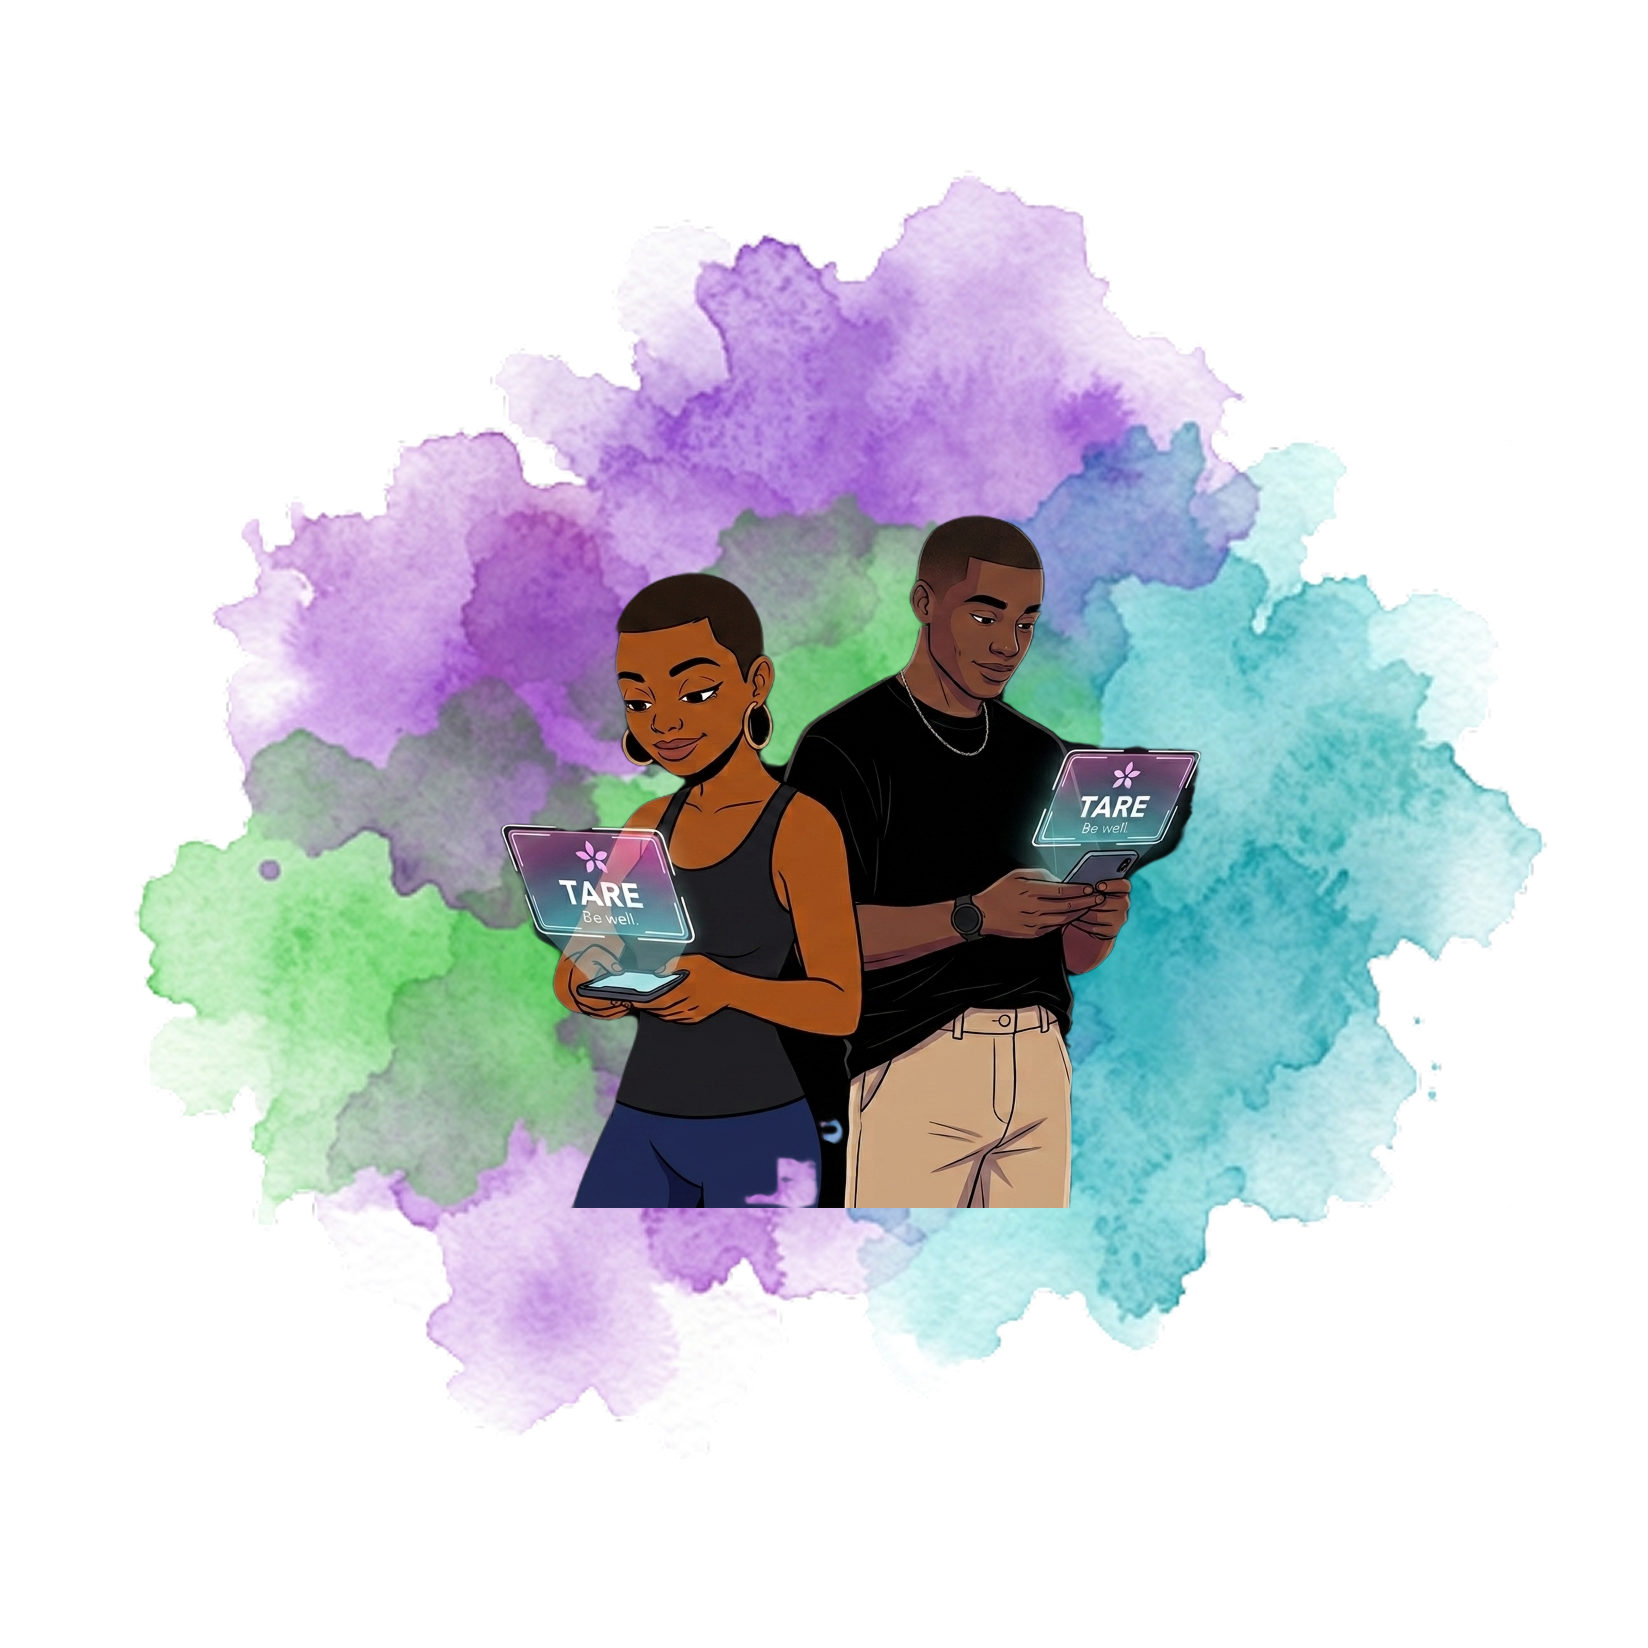
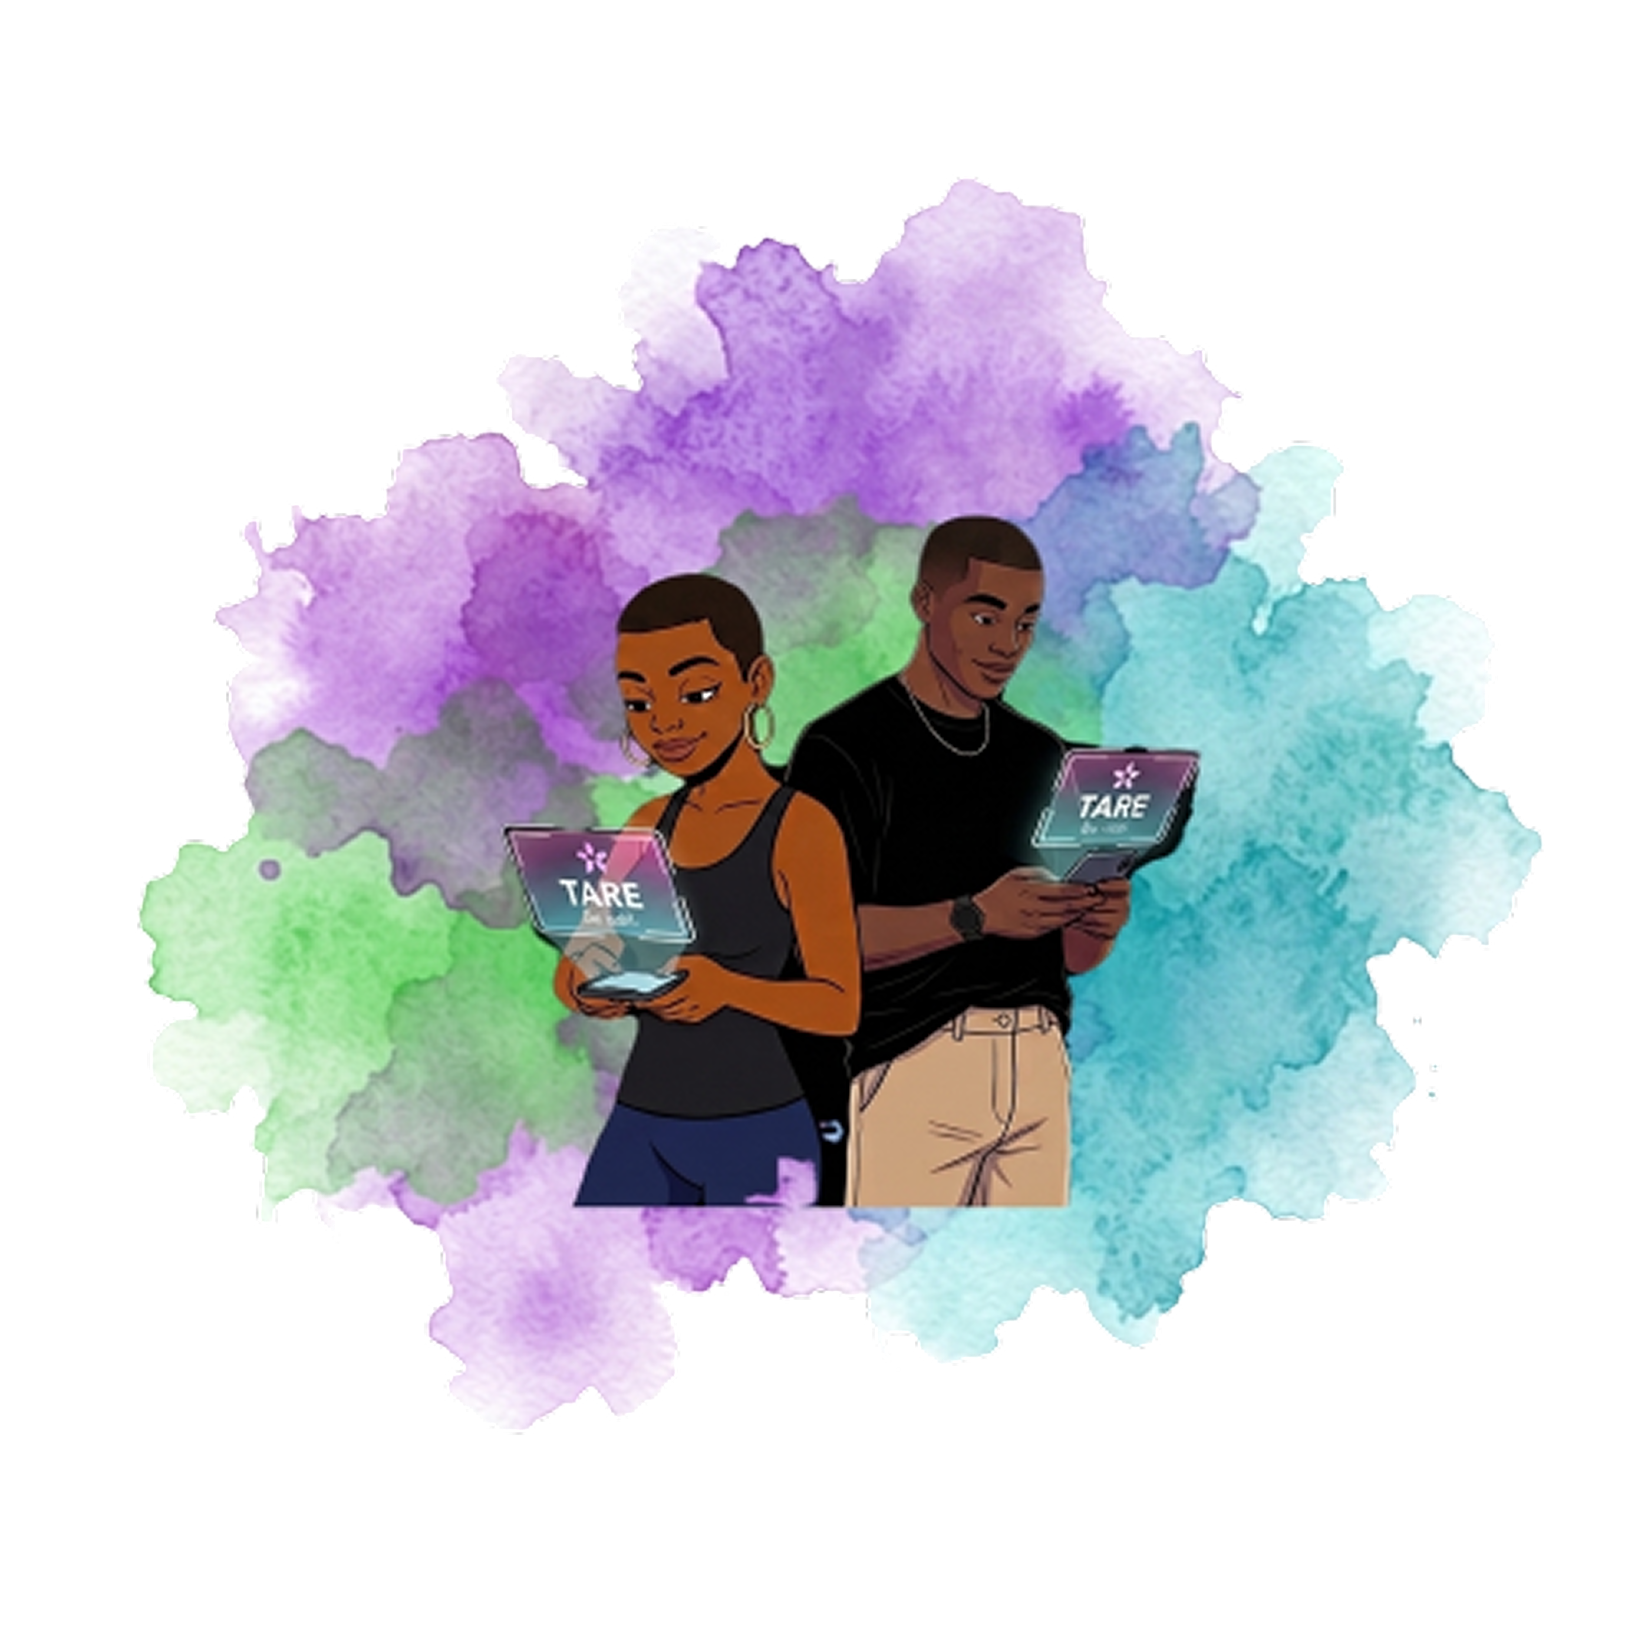
feat(hero): swap home hero image + smooth fade-in animation
Updates the home page hero section with the new "Hero Home 1.png" asset
and a smoother fade-in animation. Keeps the existing cream page
background — the image's transparent corners blend into the cream.

Asset:
- Replaced public/hero-home.png with the new "Hero Home 1.png" asset
- Image is 1648×1648 RGBA with transparent corners — transparent areas
  blend seamlessly into the cream page background (#FFF5EE)
- Content: two people holding glowing glassmorphic phones displaying
  holographic TARE Be Well screens, surrounded by a watercolor splash
  (purple, green, teal)
- Rendered via next/image with priority prop for above-the-fold LCP
  optimization (already in place)

Theme integration:
- Kept the original transparent section background — image floats on
  the cream page background (no bg-black)
- Removed the rounded-[3rem] overflow-hidden bounding box around the
  old watercolor morph layer — no visible borders or bounding boxes
- Removed the separate watercolor morph layer (the new image has its
  own watercolor content baked in)
- Removed the hero-card-glow pulsing animation (would have created a
  halo that looks like a bounding box)
- Kept the 2 ambient blurred blooms at original /30 opacity
- Text colors unchanged (dark maroon on cream — already readable)
- Button styling unchanged

Animation:
- Updated the image motion variant (itemImage) from
  initial={{ opacity: 0, scale: 0.92, y: 30 }} to
  initial={{ opacity: 0, y: 20 }} per task spec
[…]

diff --git a/src/components/site/Hero.tsx b/src/components/site/Hero.tsx
@@ -25,11 +25,13 @@ const itemUp = {
   },
 };
 
+// Per task spec: smooth fade-in + slight upward translation for the image.
+// Complements the glowing, glassmorphic UI elements the illustrated
+// characters are holding — gives a gentle "rising into view" feel.
 const itemImage = {
-  hidden: { opacity: 0, scale: 0.92, y: 30 },
+  hidden: { opacity: 0, y: 20 },
   show: {
     opacity: 1,
-    scale: 1,
     y: 0,
     transition: { duration: 0.9, ease: [0.22, 1, 0.36, 1] as const },
   },
@@ -55,7 +57,8 @@ export default function Hero() {
       id="how-it-works"
       className="relative w-full overflow-hidden px-5 pb-16 pt-6 sm:px-8 sm:pb-20 lg:px-12 lg:pb-28 lg:pt-8"
     >
-      {/* Decorative blurred blooms in the background */}
+      {/* Decorative blurred blooms in the background — kept at original
+          opacity to match the cream page background. */}
       <div
         aria-hidden
         className="pointer-events-none absolute -left-24 top-10 h-72 w-72 rounded-full bg-[#C7B2E2]/30 blur-3xl"
@@ -92,7 +95,7 @@ export default function Hero() {
             <span className="text-[#90AAFF]">They Can Feel</span>
           </motion.h1>
 
-          {/* Body copy */}
+          {/* Body copy — readable on the cream page background */}
           <motion.p
             variants={itemUp}
             className="mt-7 max-w-xl font-sans text-[18px] leading-relaxed text-[#4E0030]/80"
@@ -123,7 +126,9 @@ export default function Hero() {
           </motion.div>
         </motion.div>
 
-        {/* RIGHT: Hero image column */}
+        {/* RIGHT: Hero image column.
+            Transparent section background — image floats on the cream
+            page background (its transparent corners blend into cream). */}
         <motion.div
           variants={itemImage}
           initial="hidden"
@@ -131,23 +136,14 @@ export default function Hero() {
           className="order-1 flex items-center justify-center lg:order-2"
         >
           <div className="relative aspect-square w-full max-w-[420px] sm:max-w-[480px] lg:max-w-[560px]">
-            {/* Watercolor liquid morphing background layer (z-1) */}
-            <div aria-hidden className="absolute inset-0 z-[1] overflow-hidden rounded-[3rem]">
-              <div className="absolute inset-0 animate-watercolor-morph">
-                <div className="absolute left-[10%] top-[15%] h-[50%] w-[50%] rounded-full bg-[#C7B2E2]/40 blur-3xl animate-blob-1" />
-                <div className="absolute right-[5%] top-[20%] h-[45%] w-[45%] rounded-full bg-[#B5E1C3]/35 blur-3xl animate-blob-2" />
-                <div className="absolute left-[20%] bottom-[10%] h-[40%] w-[40%] rounded-full bg-[#BCE1F0]/35 blur-3xl animate-blob-3" />
-                <div className="absolute right-[15%] bottom-[15%] h-[35%] w-[35%] rounded-full bg-[#E8B6D5]/30 blur-3xl animate-blob-4" />
-              </div>
-            </div>
             <Image
               src="/hero-home.png"
-              alt="Black couple standing back to back holding phones displaying holographic TARE Be Well screens"
+              alt="Two people holding glowing phones displaying holographic TARE Be Well screens, surrounded by a watercolor splash of purple, green, and teal"
               fill
               priority
               quality={95}
               sizes="(max-width: 640px) 100vw, (max-width: 1024px) 480px, 560px"
-              className="hero-card-glow relative z-[3] animate-float-slow object-contain transition-all duration-500 ease-out hover:scale-[1.02] hover:drop-shadow-[0_0_30px_rgba(219,39,119,0.35)]"
+              className="relative z-[3] animate-float-slow object-contain transition-all duration-500 ease-out hover:scale-[1.02] hover:drop-shadow-[0_0_30px_rgba(219,39,119,0.35)]"
             />
           </div>
         </motion.div>
